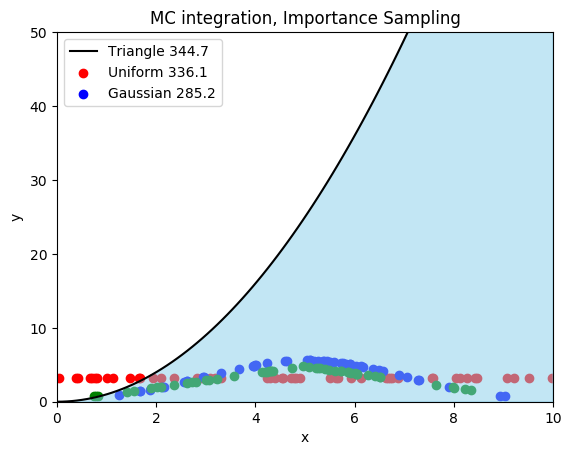
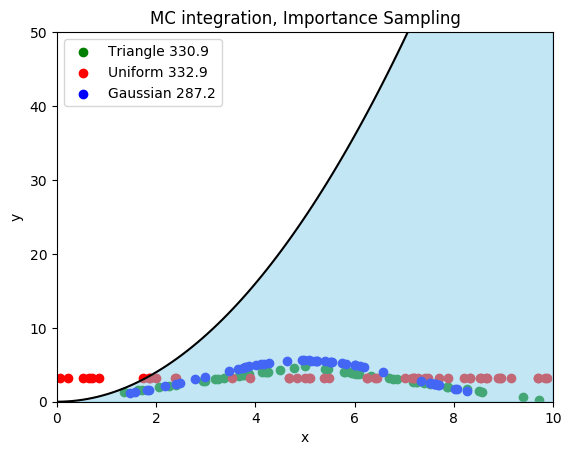
upd fig Importance Sampling

Changed region(s): [[0.0893, 0.7692, 0.9825, 0.8923], [0.2977, 0.0923, 0.387, 0.2154], [0.1191, 0.0923, 0.1786, 0.1231]]

diff --git a/MCint3.py b/MCint3.py
@@ -166,15 +166,16 @@ ax = plt.gca()
 #plt.plot(xplot,wplot2,color="blue")
 #plt.plot(xplot,wplot3,color="green")
 #plt.plot(xplot,fplot,color="black")
+plt.scatter(xinvtriangle[::200],24*wtriangle[::200],color="green")
 plt.scatter(xuni[::200],32*weightwuniform(xuni)[::200],color="red")
 plt.scatter(xinvgauss[::200],28*wgauss[::200],color="blue")
-plt.scatter(xinvtriangle[::200],24*wtriangle[::200],color="green")
+plt.legend(["Triangle {:0.1f}".format(integralTriangle),"Uniform {:0.1f}".format(integralUniform),"Gaussian {:0.1f}".format(integralGauss)])
 plt.plot(xplot,fplot,color="black")
 plt.axis([0,10,0,50])
 ax.fill_between(xplot, fplot, np.zeros(len(fplot)),alpha=0.5,color="skyblue")
 plt.xlabel("x")
 plt.ylabel("y")
-plt.legend(["Triangle {:0.1f}".format(integralTriangle),"Uniform {:0.1f}".format(integralUniform),"Gaussian {:0.1f}".format(integralGauss)])
+
 
 plt.title("MC integration, Importance Sampling")
 #plt.scatter(xinvtriangle,f5xinv,color="black")

diff --git a/README.md b/README.md
@@ -13,7 +13,7 @@ The MonteCarlo.py script is a module that can be called from other scripts, and 
 The probability is calculated by comparing areas here, so in theory only linearly distributed points can be used, I think. To use different distributions, one must 
 use the traditional method as adapted from standard numerical integration.  
 
-This script uses importance sampling with distributions seen in the legend, and the result of their integration. For this function, the integral is 333.33... analytically.
+The script MCint3.py uses importance sampling with distributions seen in the legend, and the result of their integration. For this function, the integral is 333.33... analytically.
 
 
 ![MCint.png](https://github.com/mintDan/MonteCarlo/blob/master/figs/MCis.png)
